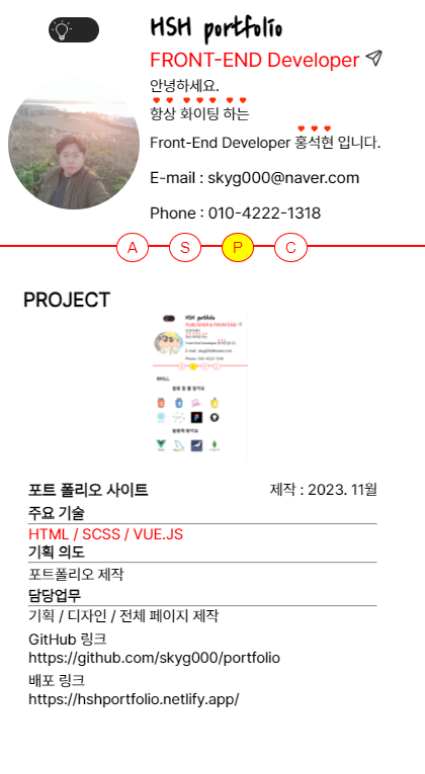
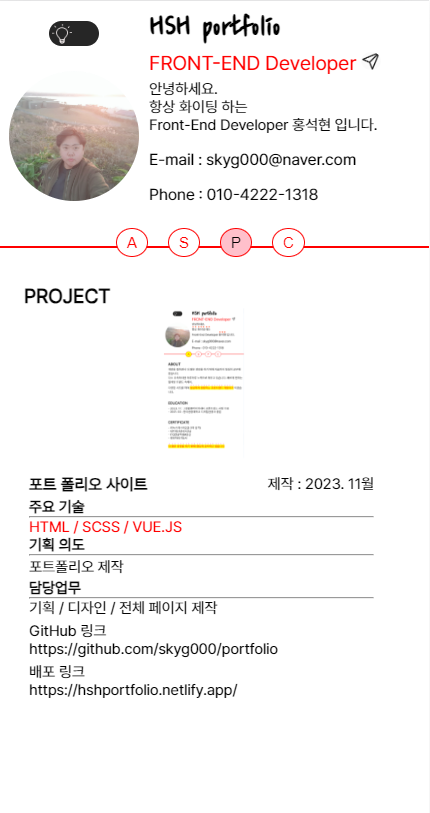
12-31new

diff --git a/src/assets/css/Profile.scss b/src/assets/css/Profile.scss
@@ -262,7 +262,7 @@ $mode-toggle-bg: #262626;
                 left: 180px;
                 a{
                     h2{
-                        margin: 15px 0 50px 20px;
+                        margin: 15px 0 35px 20px;
                         
                     }
                 }
@@ -357,7 +357,7 @@ $mode-toggle-bg: #262626;
                 left: 120px;
                 a{
                     h2{
-                        margin: 15px 0 50px 20px;
+                        margin: 15px 0 30px 20px;
                         
                     }
                 }
